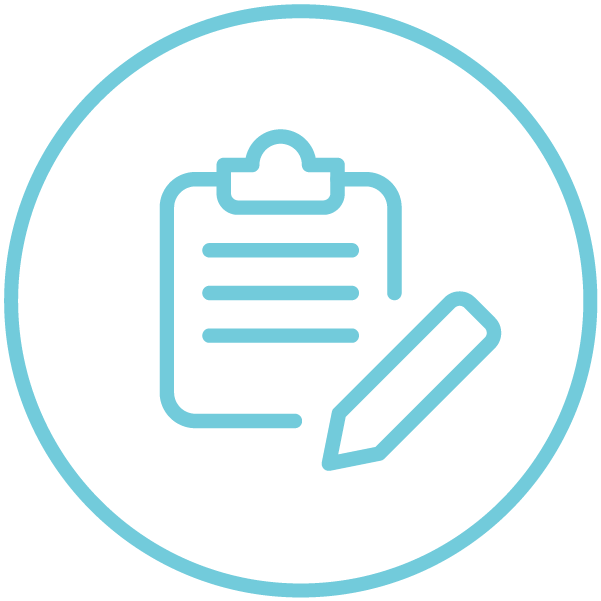
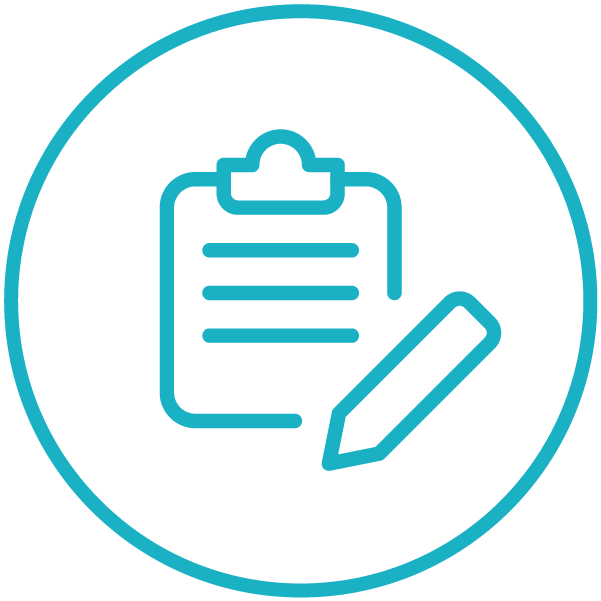
updating donors section, adding media queries

diff --git a/src/components/donors/donors.js b/src/components/donors/donors.js
@@ -1,8 +1,9 @@
 import React from 'react';
-import Carousel from 'react-bootstrap/Carousel';
 import styles from './donors.module.css';
 import jenis from '../../assets/jenis.png';
 import urbanGeneralStore from '../../assets/urban-general-store.png';
+import laColombe from '../../assets/laColombe-logo.png';
+import sinTitulo from '../../assets/sinTitulo-logo.png';
 import Fade from 'react-reveal/Fade';
 
 const Donors = () => (
@@ -10,30 +11,52 @@ const Donors = () => (
         <div className={styles.donorsWrapper}>
             <h1>THANK YOU TO OUR DONORS</h1>
             <hr/>
-            <Carousel className={styles.carouselWrapper}>
-                <Carousel.Item className={styles.itemWrapper}>
+            <div className={styles.itemWrapper}>
+                <div className={styles.item}>
                     <img
                         src={jenis}
                         alt="Jeni's Ice Cream"
                         className={styles.itemImg}
                     />  
-                    <div className={styles.itemDescription}>
+                    <div className={styles.itemDescriptionL}>
                         <h3><a href="https://jenis.com/" target="_blank" rel="noreferrer">Jeni's Spendid Ice Creams</a></h3>
-                        <p>Jeni Britton Bauer founded Jeni's Splendid Ice Cream in 2002. Her ahead-of-the-trend vision—using whole ingredients and dairy from grass-pastured cows, rather than synthetic flavorings and commodity ice cream mix—coupled with inspired flavors sparked the artisan ice cream movement more than a decade before it would become a top food trend.</p>
+                        <p>Founded by Jeni Britton Bauer, Jeni's Splendid Ice Cream ahead-of-the-trend vision—using whole ingredients and dairy from grass-pastured cows mix—coupled with inspired flavors sparked the artisan ice cream movement more than a decade before it would become a top food trend.</p>
                     </div>
-                </Carousel.Item>
-                <Carousel.Item className={styles.itemWrapper}>
+                </div>
+                <div className={styles.item}>
+                    <div className={styles.itemDescriptionR}>
+                        <h3><a href="https://urbangeneralstore.com/" target="_blank" rel="noreferrer">Urban General Store</a></h3>
+                        <p>Founded by Rebecca Wood, Urban General Store is a nod to general stores of the past but updated to meet the needs of today's modern shopper. The site carries a wide variety of fun, functional, inspirational and well-designed items so that all your gift buying can be accomplished at one website.</p>
+                    </div>
                     <img
                         src={urbanGeneralStore}
                         alt="Urban Genral Store"
                         className={styles.itemImg}
                     />  
-                    <div className={styles.itemDescription}>
-                        <h3><a href="https://urbangeneralstore.com/" target="_blank" rel="noreferrer">Urban General Store</a></h3>
-                        <p>Rebecca Wood is the founder/owner of ENJOY, AN URBAN GENERAL STORE. Launched in 2008, Urban General Store is a nod to general stores of the past but updated to meet the needs of today's modern shopper. The site carries a wide variety of fun, functional, inspirational and well-designed items so that all your gift buying can be accomplished at one website.</p>
+                </div>
+                <div className={styles.item}>
+                    <img
+                        src={sinTitulo}
+                        alt="Sin Titulo"
+                        className={styles.itemImg}
+                    />  
+                    <div className={styles.itemDescriptionL}>
+                        <h3><a href="#" target="_blank" rel="noreferrer">Sin Titulo</a></h3>
+                        <p>Need to add</p>
                     </div>
-                </Carousel.Item>
-            </Carousel>
+                </div>
+                <div className={styles.item}>
+                    <div className={styles.itemDescriptionR}>
+                        <h3><a href="https://www.lacolombe.com/" target="_blank" rel="noreferrer">La Colombe</a></h3>
+                        <p>Need to add</p>
+                    </div>
+                    <img
+                        src={laColombe}
+                        alt="La Colombe"
+                        className={styles.itemImg}
+                    />  
+                </div>
+            </div>
         </div>
     </Fade>
 );

diff --git a/src/components/donors/donors.module.css b/src/components/donors/donors.module.css
@@ -1,8 +1,10 @@
 .donorsWrapper {
+    display: block;
+    overflow: auto;
     font-family: 'Oswald', sans-serif;
-    background-color: #72cada;
+    background-color: #18b0c4;
     text-align: center;
-    padding: 4% 8%;
+    padding: 4% 6%;
 }
 
 .donorsWrapper h1 {
@@ -17,52 +19,51 @@
     border: 2px solid white;
 }
 
-.carouselWrapper {
+.itemWrapper {
     margin-top: 4%;
 }
 
-.carouselWrapper ol li {
-    background-color: #2aa7df;
-    border-radius: 5px;
+.item {
+    width: 100%;
+    transition: transform 1s;
 }
 
-.itemWrapper {
-    width: 800px !important;
-    height: 400px;
-    margin-left: 22% !important;
+.item:hover {
+    transform: scale(1.05)
 }
 
 .itemImg {
-    width: 400px;
-    height: 400px;
+    width: 200px;
+    height: 200px;
     float: left;
+    margin-bottom: 2%;
 }
 
-.itemDescription {
-    width: 400px;
-    height: 400px;
+.itemDescriptionL, .itemDescriptionR {
+    width: 32%;
+    height: 200px;
     float: left;
-    background-color: rgba(255,255,255,0.2);
-    padding: 6% 4% 0;
+    background-color: rgba(255,255,255,0.1);
+    padding: 1.5% 2% 0;
     color: white;
 }
 
-.itemDescription h3 {
-    font-size: 32px;
-    margin-bottom: 3%;
+.itemDescriptionL {
+    margin-right: 2%;
 }
 
-.itemDescription h3 a {
+.itemDescriptionL h3, .itemDescriptionR h3 {
+    font-size: 28px;
+    margin-bottom: 2%;
+}
+
+.itemDescriptionL h3 a, .itemDescriptionR h3 a {
     text-decoration: none;
     color: white;
-    transition: ease 0.5s;
 }
 
-.itemDescription h3 a:hover {
-    color: #2aa7df;
-}
-
-.itemDescription p {
-    font-size: 16px;
+.itemDescriptionL p, .itemDescriptionR p {
+    font-size: 13px;
     font-family: 'Montserrat', sans-serif;
+    text-align: left;
 }

diff --git a/src/components/howItWorks/howItWorks.module.css b/src/components/howItWorks/howItWorks.module.css
@@ -1,6 +1,6 @@
 .howItWorksWrapper {
     font-family: 'Oswald', sans-serif;
-    padding: 4% 8%;
+    padding: 4% 6%;
 }
 
 .howItWorksWrapper h1 {
@@ -25,8 +25,8 @@
 }
 
 .iconWrapper p{
-    font-size: 16px;
-    color: #555555;
+    font-size: 14px;
+    color: #222222;
     font-family: 'Montserrat', sans-serif;
     line-height: 28px;
     margin-top: 4%;
@@ -39,23 +39,23 @@
 }
 
 .registerWrapper, .raffleWrapper, .bidWrapper {
-    width: 30%;
-    margin-right: 5%;
+    width: 40%;
+    margin-right: 3%;
 }
 
 .learnWrapper {
-    width: 30%;
+    width: 40%;
 }
 
 .registerWrapper h3{
     font-size: 32px;
     margin-top: 2%;
-    color: #72cada;
+    color: #18b0c4;
 }
 
 .registerWrapper a {
     text-decoration: none;
-    color: #72cada;
+    color: #18b0c4;
 }
 
 .raffleWrapper h3{
@@ -67,7 +67,7 @@
 .bidWrapper h3{
     font-size: 32px;
     margin-top: 2%;
-    color: #faed20;
+    color: #ead72a;
 }
 
 .learnWrapper h3{
@@ -97,7 +97,7 @@
 .moreInfoWrapper ul li{
     font-family: 'Montserrat', sans-serif;
     font-size: 16px;
-    color: #555555;
+    color: #222222;
     line-height: 32px;
 }
 

diff --git a/src/components/landing/landing.module.css b/src/components/landing/landing.module.css
@@ -25,3 +25,56 @@
     width: 15%;
     padding-top: 6%;
 }
+
+@media screen and (max-width: 1400px) {
+    .landingWrapper {
+        height: 50vh;
+    }
+}
+
+@media screen and (max-width: 1200px) {
+    .landingWrapper {
+        height: 40vh;
+    }
+}
+
+@media screen and (max-width: 1000px) {
+    .landingWrapper {
+        height: 30vh;
+    }
+    .landingWrapper h1 {
+        font-size: 80px;
+    }
+    
+    .landingWrapper h2 {
+        font-size: 48px;
+    }
+}
+
+@media screen and (max-width: 800px) {
+    .landingWrapper {
+        height: 25vh;
+    }
+    .landingWrapper h1 {
+        font-size: 60px;
+    }
+    
+    .landingWrapper h2 {
+        font-size: 32px;
+    }
+}
+
+@media screen and (max-width: 500px) {
+    .landingWrapper h1 {
+        font-size: 32px;
+        margin-top: 1%;
+    }
+    
+    .landingWrapper h2 {
+        font-size: 20px;
+        margin-top: 4%;
+    }
+    .logo {
+        width: 30%;
+    }
+}

diff --git a/src/components/overview/overview.module.css b/src/components/overview/overview.module.css
@@ -3,7 +3,7 @@
     font-family: 'Oswald', sans-serif;
     color: white;
     text-align: center;
-    padding: 4% 8%;
+    padding: 4% 6%;
 }
 
 .overviewWrapper h1 {
@@ -23,4 +23,25 @@
     font-family: 'Montserrat', sans-serif;
     line-height: 40px;
     margin-top: 4%;
+}
+
+
+@media screen and (max-width: 800px) {
+    .overviewWrapper h1 {
+        font-size: 48px;
+    }
+    .overviewWrapper p {
+        font-size: 18px;
+        line-height: 30px;
+    }
+}
+
+@media screen and (max-width: 500px) {
+    .overviewWrapper h1 {
+        font-size: 36px;
+    }
+    .overviewWrapper p {
+        font-size: 14px;
+        line-height: 24px;
+    }
 }

diff --git a/src/components/auctionItems/auctionItems.module.css b/src/components/auctionItems/auctionItems.module.css
@@ -4,7 +4,7 @@
     background-color: #2aa7df;
     font-family: 'Oswald', sans-serif;
     color: white;
-    padding: 4% 8%;
+    padding: 4% 6%;
 }
 
 .auctionItemsWrapper h1 {
@@ -30,7 +30,7 @@
 
 .item {
     width: 22%;
-    background-color: rgba(255,255,255,0.2);
+    background-color: rgba(255,255,255,0.1);
     border-radius: 5px;
     padding: 2%;
     margin-bottom: 4%;
@@ -38,14 +38,14 @@
 }
 
 .item:hover {
-    transform: scale(1.1)
+    transform: scale(1.05)
 }
 
 .item h3 {
     font-family: 'Oswald', sans-serif;
-    font-size: 32px;
+    font-size: 28px;
     text-align: center;
-    margin-top: 2%;
+    margin: 4% 0;
 }
 
 .item p {

diff --git a/src/components/organizations/organizations.js b/src/components/organizations/organizations.js
@@ -10,7 +10,7 @@ const Organizations = () => (
         <div className={styles.organizationsWrapper}>
             <h1>ABOUT THE NON-PROFIT ORGANZATIONS</h1>
             <hr/>
-            <p>Learn more about the non-profit organzations we will be donating too!</p>
+            <p>Learn more about the non-profit organzations we will be donating to!</p>
             <div className={styles.organizationsContainer}>
                 <div className={styles.organization}>
                     <a href="https://www.cfw.org/" target="_blank" rel="noreferrer">

diff --git a/src/components/organizations/organizations.module.css b/src/components/organizations/organizations.module.css
@@ -1,8 +1,8 @@
 .organizationsWrapper {
     font-family: 'Oswald', sans-serif;
-    color: #72cada;
+    color: #18b0c4;
     text-align: center;
-    padding: 4% 8%;
+    padding: 4% 6%;
 }
 
 .organizationsWrapper h1 {
@@ -13,7 +13,7 @@
 
 .organizationsWrapper hr {
     width: 8%;
-    border: 2px solid #72cada;
+    border: 2px solid #18b0c4;
 }
 
 .organizationsWrapper p {
@@ -37,7 +37,7 @@
 .organization h3{
     font-size: 28px;
     margin-top: 4%;
-    color: #72cada;
+    color: #18b0c4;
 }
 
 .logo{
